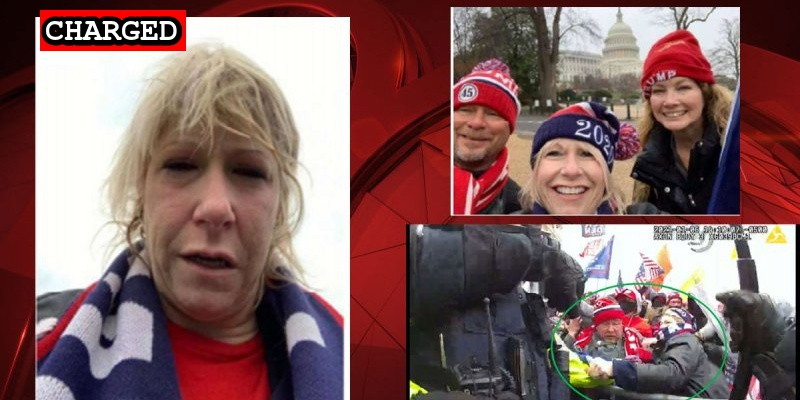
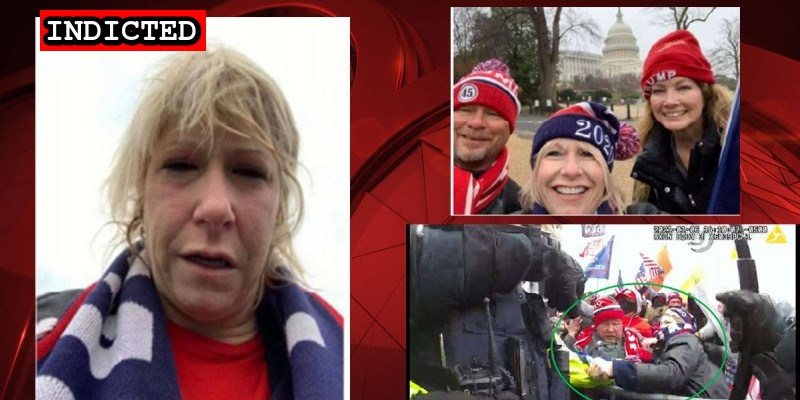
New indictments

Changed region(s): [[0.0312, 0.0, 0.2812, 0.15]]

diff --git a/docs/_suspects/jalise-middleton.md b/docs/_suspects/jalise-middleton.md
@@ -3,13 +3,13 @@ name: Jalise Middleton
 lastName: Middleton
 aka:
 residence: Texas
-status: Charged
+status: Indicted
 date: 2021-04-21
 charged: 2021-04-21
-indicted:
-convicted: 
-sentenced: 
-dismissed: 
+indicted: 2021-05-19
+convicted:
+sentenced:
+dismissed:
 age: 50
 occupation: Billing Manager
 affiliations:
@@ -21,7 +21,7 @@ courtroom:
 courthouse:
 raid:
 perpwalk:
-quote: "We fought the cops to get in the Capital and got pepper sprayed and beat but by gosh the patriots got in!"
+quote: 'We fought the cops to get in the Capital and got pepper sprayed and beat but by gosh the patriots got in!'
 title: Jalise Middleton arrested on April 21, 2021
 description: Click for latest case details. Suspects innocent until proven guilty.
 author: seditiontrack
@@ -29,6 +29,8 @@ layout: suspect
 published: true
 charges:
 ---
+
 - [News Report](https://www.nbcdfw.com/news/local/north-texas-couple-charged-with-assaulting-officers-during-jan-6-capitol-riot/2613058/)
 - [Statement of Facts](https://www.justice.gov/usao-dc/case-multi-defendant/file/1388961/download)
 - [Complaint](https://www.justice.gov/usao-dc/case-multi-defendant/file/1388981/download)
+- [Indictment](https://www.justice.gov/usao-dc/case-multi-defendant/file/1410766/download)

diff --git a/docs/_suspects/mark-middleton.md b/docs/_suspects/mark-middleton.md
@@ -3,13 +3,14 @@ name: Mark Middleton
 lastName: Middleton
 aka:
 residence: Texas
-status: Charged
+status: Indicted
 date: 2021-04-21
 charged: 2021-04-21
-indicted:
-convicted: 
-sentenced: 
-dismissed: 
+indicted: 2021-05-19
+convicted:
+sentenced:
+dismissed:
+deceased:
 age: 51
 occupation: Volunteer Firefighter, Pilot
 affiliations:
@@ -21,7 +22,7 @@ courtroom:
 courthouse:
 raid:
 perpwalk:
-quote: "We helped push down the barriers. Jalise and I got pepper sprayed, clubbed, and tear gassed."
+quote: 'We helped push down the barriers. Jalise and I got pepper sprayed, clubbed, and tear gassed.'
 title: Mark Middleton arrested on April 21, 2021
 description: Click for latest case details. Suspects innocent until proven guilty.
 author: seditiontrack
@@ -29,6 +30,8 @@ layout: suspect
 published: true
 charges:
 ---
+
 - [News Report](https://www.nbcdfw.com/news/local/north-texas-couple-charged-with-assaulting-officers-during-jan-6-capitol-riot/2613058/)
 - [Complaint](https://www.justice.gov/usao-dc/case-multi-defendant/file/1388956/download)
 - [Statement of Facts](https://www.justice.gov/usao-dc/case-multi-defendant/file/1388961/download)
+- [Indictment](https://www.justice.gov/usao-dc/case-multi-defendant/file/1410766/download)

diff --git a/docs/_suspects/anthony-moat.md b/docs/_suspects/anthony-moat.md
@@ -8,8 +8,9 @@ date: 2021-04-07
 charged: 2021-04-07
 indicted:
 convicted: 
-sentenced: 
+sentenced:
 dismissed: 
+deceased:
 age: 35
 occupation:
 affiliations:
@@ -32,3 +33,4 @@ charges:
 - [News Report](https://lawandcrime.com/u-s-capitol-siege/prosecutors-file-charges-against-man-who-called-the-fbi-to-say-he-was-there-on-jan-6/)
 - [Complaint](https://www.justice.gov/usao-dc/case-multi-defendant/file/1385896/download)
 - [Statement of Facts](https://www.justice.gov/usao-dc/case-multi-defendant/file/1385901/download)
+- [Information](https://www.justice.gov/usao-dc/case-multi-defendant/file/1410821/download)
